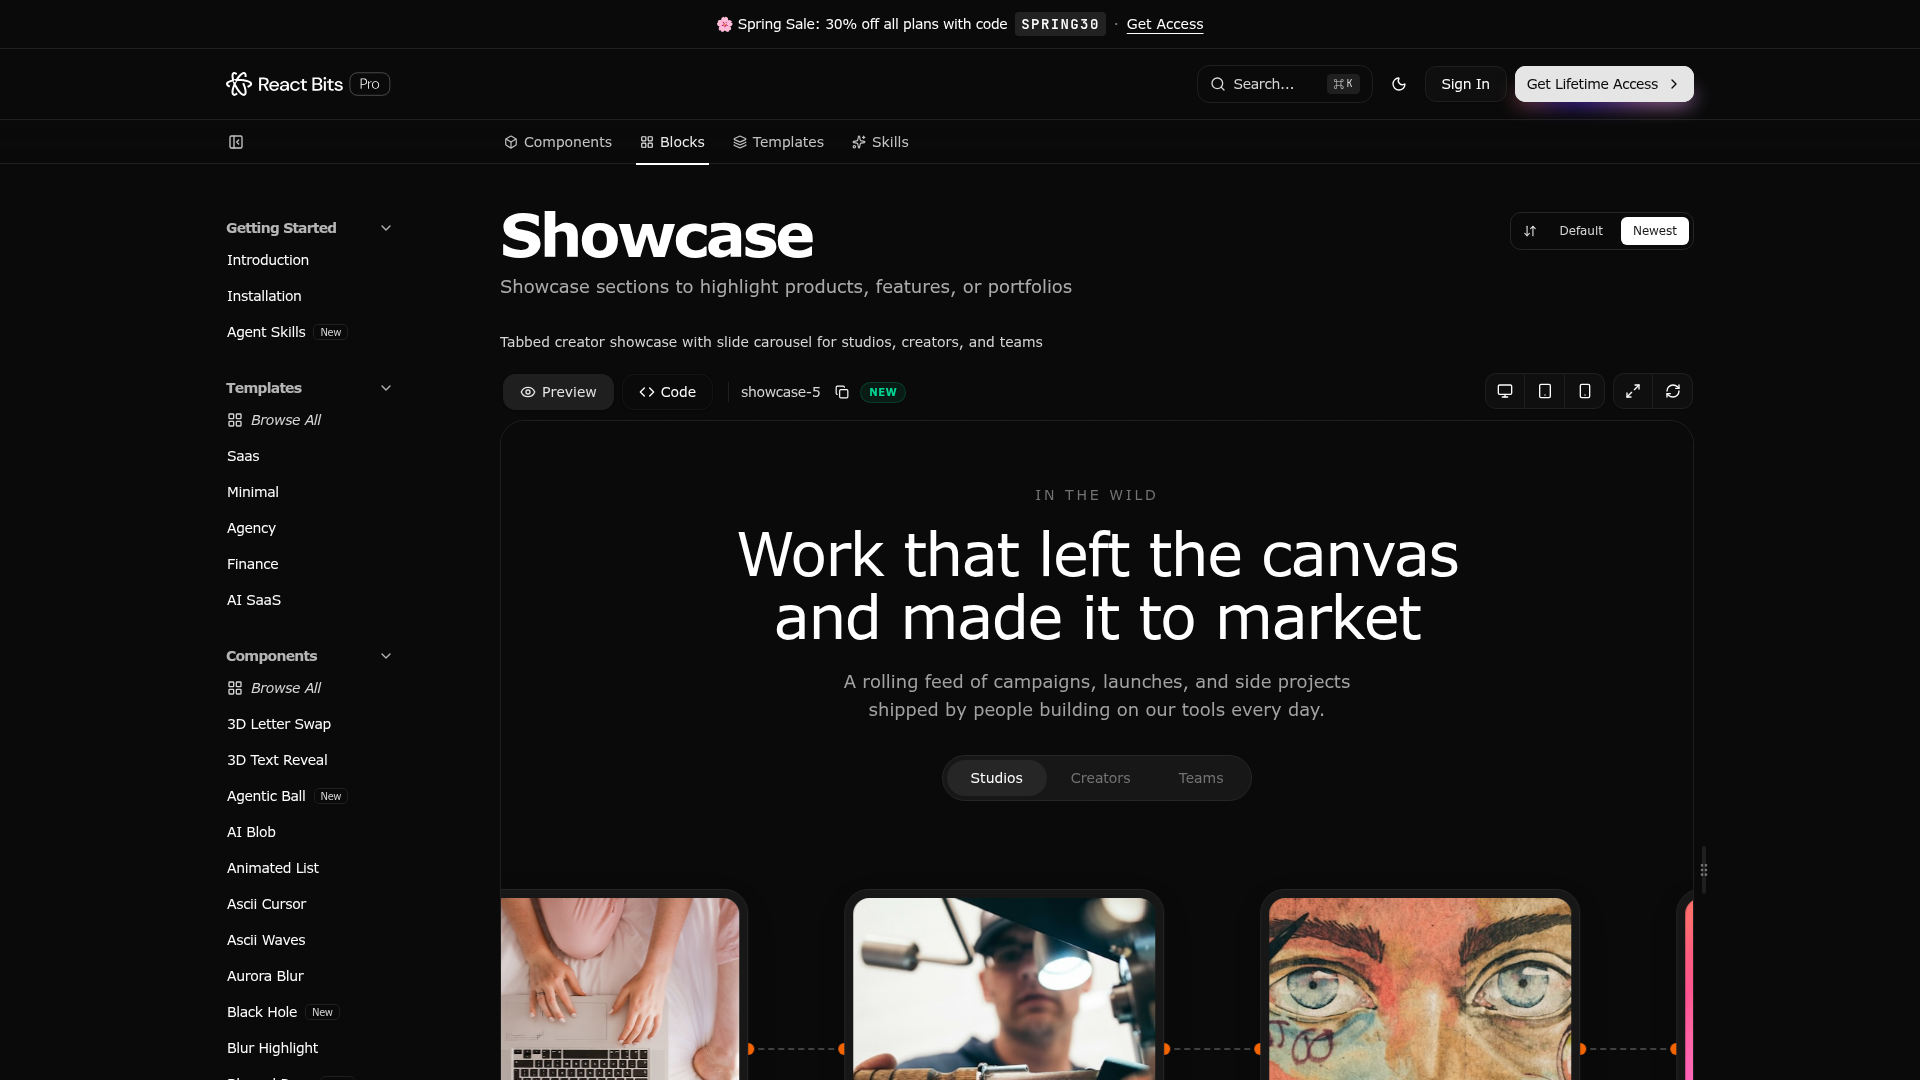
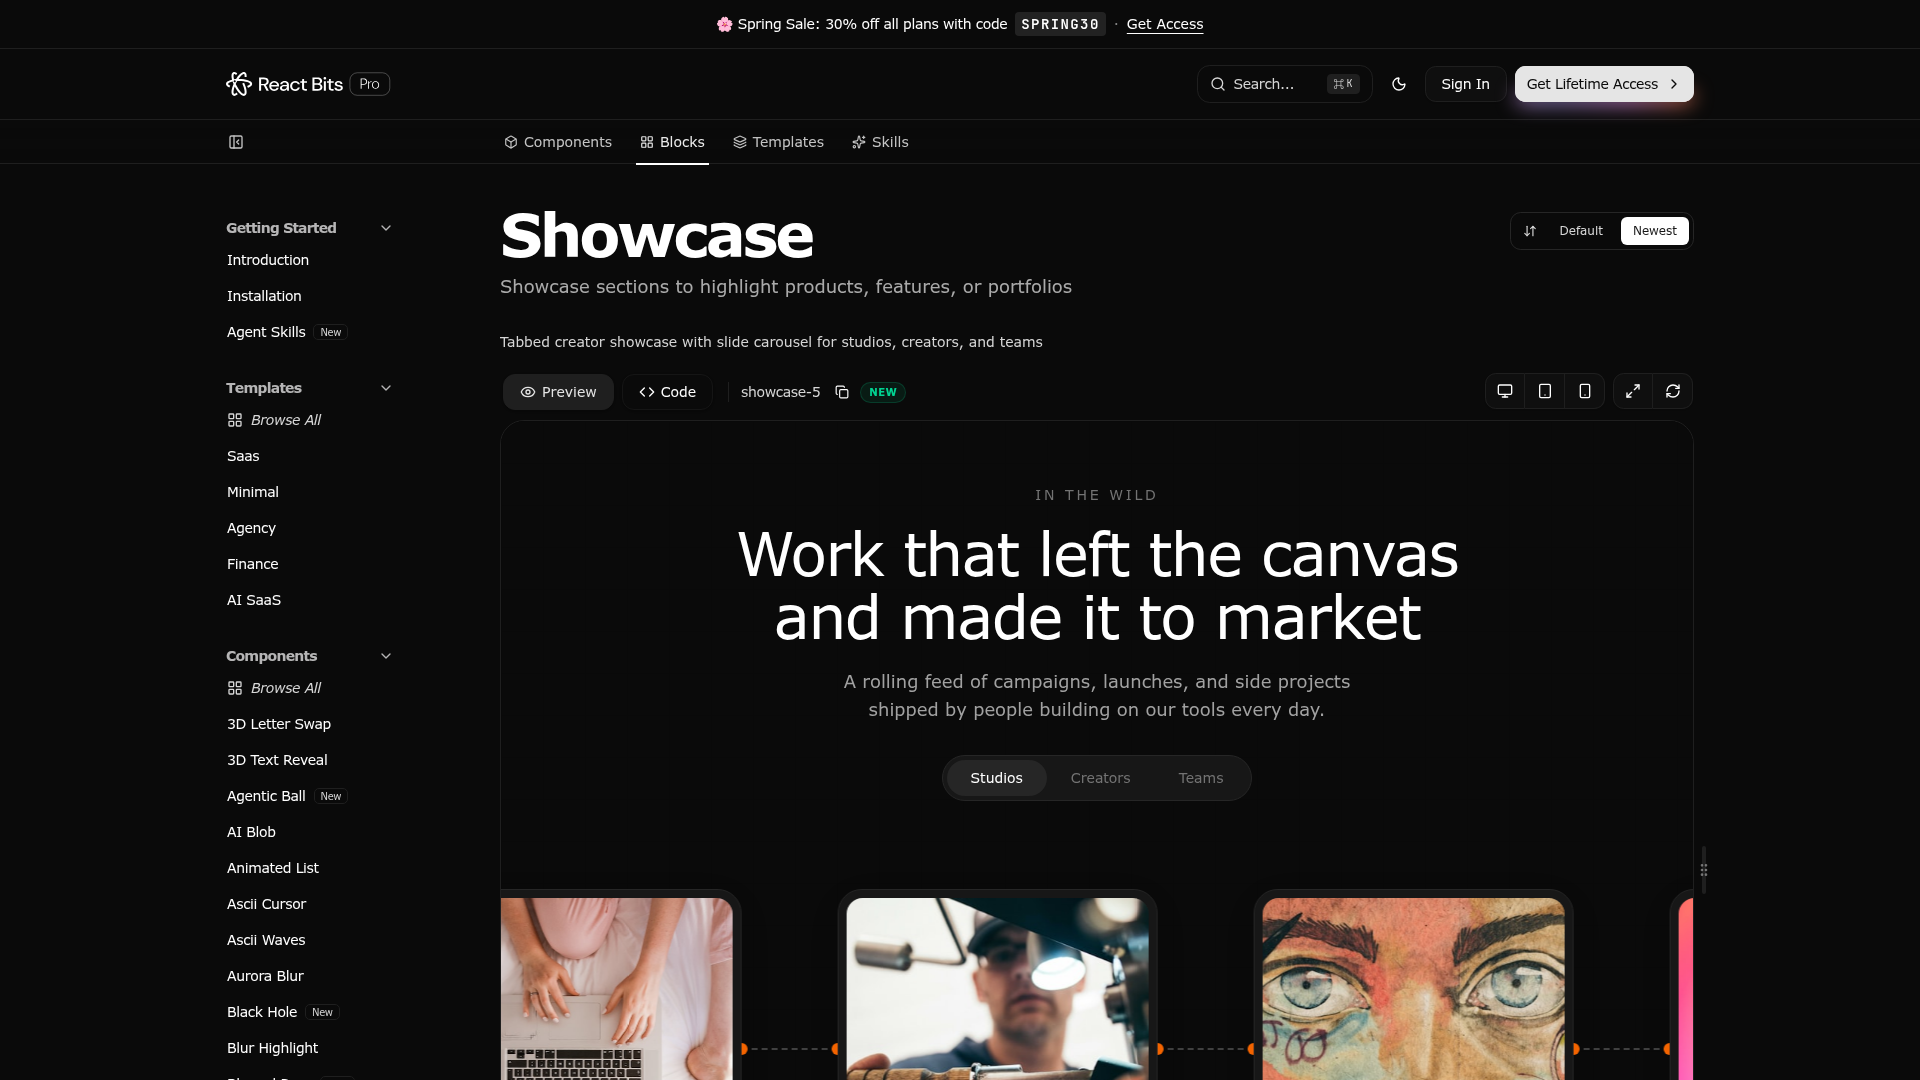
Update the showcase component with animations and progress indicators
Refactor Showcase component with animations, auto-advancing, and progress indicators; update CSS for styling and responsive design; and adjust Astro configuration for server hosting.

Replit-Commit-Author: Agent
Replit-Commit-Session-Id: 16e4a3a4-1a92-40a0-818f-ed99bcbd32b2
Replit-Commit-Checkpoint-Type: full_checkpoint
Replit-Commit-Event-Id: adf1d2cc-d387-42d8-b27a-7fd24bcb6a69
Replit-Commit-Screenshot-Url: https://storage.googleapis.com/screenshot-production-us-central1/f4d5b057-6e92-4c4b-bf42-403bbf2c23e1/16e4a3a4-1a92-40a0-818f-ed99bcbd32b2/C1oynoN
Replit-Helium-Checkpoint-Created: true

Changed region(s): [[0.4375, 0.825, 0.875, 1.0], [0.25, 0.825, 0.4062, 1.0], [0.8125, 0.0917, 0.8438, 0.1222]]

diff --git a/src/components/Showcase.css b/src/components/Showcase.css
@@ -1,39 +1,170 @@
-.showcase {
+.showcase-section {
+  width: 100%;
+  padding: 60px 0;
+}
+
+.showcase-inner {
   display: grid;
-  grid-template-columns: 1fr 1.5fr;
-  gap: 40px;
+  grid-template-columns: 1fr 1.6fr;
+  gap: 48px;
   align-items: center;
 }
 
-.left {
+/* ── Left panel ─────────────────────────────────────── */
+
+.showcase-left {
   display: flex;
   flex-direction: column;
-  gap: 20px;
+  gap: 8px;
 }
 
-.item {
-  padding: 16px;
+.showcase-item {
+  display: flex;
+  align-items: stretch;
+  gap: 16px;
+  padding: 18px 16px;
   border-radius: 12px;
   cursor: pointer;
-  opacity: 0.6;
+  background: transparent;
+  border: none;
+  text-align: left;
+  width: 100%;
+  transition: background 0.25s ease;
+  opacity: 0.38;
+  transition: opacity 0.3s ease, background 0.25s ease;
 }
 
-.item.active {
-  background: rgba(255,255,255,0.08);
+.showcase-item:hover {
+  background: rgba(255, 255, 255, 0.04);
+  opacity: 0.65;
+}
+
+.showcase-item--active {
+  background: rgba(255, 255, 255, 0.06);
   opacity: 1;
 }
 
-.item h3 {
-  margin: 0;
-  font-size: 22px;
+/* Progress track — vertical line on the left */
+.showcase-progress-track {
+  flex-shrink: 0;
+  width: 2px;
+  border-radius: 2px;
+  background: rgba(255, 255, 255, 0.1);
+  position: relative;
+  overflow: hidden;
 }
 
-.item p {
-  margin: 4px 0 0;
-  color: #9ca3af;
-}
-
-.right img {
+.showcase-progress-bar {
+  position: absolute;
+  top: 0;
+  left: 0;
   width: 100%;
+  background: #fff;
+  border-radius: 2px;
+  transition: height 0.016s linear;
+}
+
+/* Item body */
+.showcase-item-body {
+  display: flex;
+  flex-direction: column;
+  gap: 6px;
+}
+
+.showcase-item-title {
+  margin: 0;
+  font-size: 16px;
+  font-weight: 600;
+  color: #fff;
+  letter-spacing: -0.01em;
+  line-height: 1.3;
+}
+
+.showcase-item-desc {
+  margin: 0;
+  font-size: 13.5px;
+  color: rgba(255, 255, 255, 0.45);
+  line-height: 1.5;
+}
+
+/* ── Right panel ─────────────────────────────────────── */
+
+.showcase-right {
+  position: relative;
   border-radius: 16px;
+  overflow: hidden;
+  background: rgba(255, 255, 255, 0.04);
+  border: 1px solid rgba(255, 255, 255, 0.08);
+  aspect-ratio: 16 / 10;
+  box-shadow:
+    0 0 0 1px rgba(255, 255, 255, 0.04),
+    0 32px 64px -16px rgba(0, 0, 0, 0.6);
+}
+
+.showcase-image-wrap {
+  position: absolute;
+  inset: 0;
+}
+
+.showcase-image {
+  width: 100%;
+  height: 100%;
+  object-fit: cover;
+  display: block;
+}
+
+.showcase-image-overlay {
+  position: absolute;
+  inset: 0;
+  background: linear-gradient(
+    to bottom,
+    transparent 60%,
+    rgba(0, 0, 0, 0.4) 100%
+  );
+  pointer-events: none;
+}
+
+/* ── Fade transitions ─────────────────────────────────── */
+
+.showcase-fade-in {
+  animation: showcaseFadeIn 0.3s ease forwards;
+}
+
+.showcase-fade-out {
+  animation: showcaseFadeOut 0.2s ease forwards;
+}
+
+@keyframes showcaseFadeIn {
+  from {
+    opacity: 0;
+    transform: scale(1.015);
+  }
+  to {
+    opacity: 1;
+    transform: scale(1);
+  }
+}
+
+@keyframes showcaseFadeOut {
+  from {
+    opacity: 1;
+    transform: scale(1);
+  }
+  to {
+    opacity: 0;
+    transform: scale(0.985);
+  }
+}
+
+/* ── Responsive ───────────────────────────────────────── */
+
+@media (max-width: 640px) {
+  .showcase-inner {
+    grid-template-columns: 1fr;
+    gap: 32px;
+  }
+
+  .showcase-right {
+    aspect-ratio: 16 / 9;
+  }
 }

diff --git a/src/components/Showcase.tsx b/src/components/Showcase.tsx
@@ -1,4 +1,6 @@
-import { useState } from "react";
+import { useState, useEffect, useRef } from "react";
+
+const DURATION = 4000;
 
 const items = [
   {
@@ -20,25 +22,89 @@ const items = [
 
 export default function Showcase() {
   const [active, setActive] = useState(0);
+  const [progress, setProgress] = useState(0);
+  const [fadeIn, setFadeIn] = useState(true);
+  const intervalRef = useRef<ReturnType<typeof setInterval> | null>(null);
+  const startRef = useRef<number>(Date.now());
+
+  const goTo = (index: number) => {
+    setFadeIn(false);
+    setTimeout(() => {
+      setActive(index);
+      setProgress(0);
+      startRef.current = Date.now();
+      setFadeIn(true);
+    }, 200);
+  };
+
+  useEffect(() => {
+    intervalRef.current = setInterval(() => {
+      const elapsed = Date.now() - startRef.current;
+      const pct = Math.min((elapsed / DURATION) * 100, 100);
+      setProgress(pct);
+
+      if (elapsed >= DURATION) {
+        const next = (active + 1) % items.length;
+        setFadeIn(false);
+        setTimeout(() => {
+          setActive(next);
+          setProgress(0);
+          startRef.current = Date.now();
+          setFadeIn(true);
+        }, 200);
+      }
+    }, 16);
+
+    return () => {
+      if (intervalRef.current) clearInterval(intervalRef.current);
+    };
+  }, [active]);
+
+  const handleClick = (i: number) => {
+    if (intervalRef.current) clearInterval(intervalRef.current);
+    goTo(i);
+  };
 
   return (
-    <div className="showcase">
-      <div className="left">
-        {items.map((item, i) => (
-          <div
-            key={i}
-            onClick={() => setActive(i)}
-            className={i === active ? "item active" : "item"}
-          >
-            <h3>{item.title}</h3>
-            <p>{item.desc}</p>
-          </div>
-        ))}
-      </div>
+    <section className="showcase-section">
+      <div className="showcase-inner">
+        {/* Left panel */}
+        <div className="showcase-left">
+          {items.map((item, i) => {
+            const isActive = i === active;
+            return (
+              <button
+                key={i}
+                className={`showcase-item${isActive ? " showcase-item--active" : ""}`}
+                onClick={() => handleClick(i)}
+              >
+                <div className="showcase-progress-track">
+                  <div
+                    className="showcase-progress-bar"
+                    style={{ height: isActive ? `${progress}%` : i < active ? "100%" : "0%" }}
+                  />
+                </div>
+                <div className="showcase-item-body">
+                  <h3 className="showcase-item-title">{item.title}</h3>
+                  <p className="showcase-item-desc">{item.desc}</p>
+                </div>
+              </button>
+            );
+          })}
+        </div>
 
-      <div className="right">
-        <img src={items[active].image} alt="" />
+        {/* Right panel */}
+        <div className="showcase-right">
+          <div className={`showcase-image-wrap${fadeIn ? " showcase-fade-in" : " showcase-fade-out"}`}>
+            <img
+              src={items[active].image}
+              alt={items[active].title}
+              className="showcase-image"
+            />
+            <div className="showcase-image-overlay" />
+          </div>
+        </div>
       </div>
-    </div>
+    </section>
   );
 }
